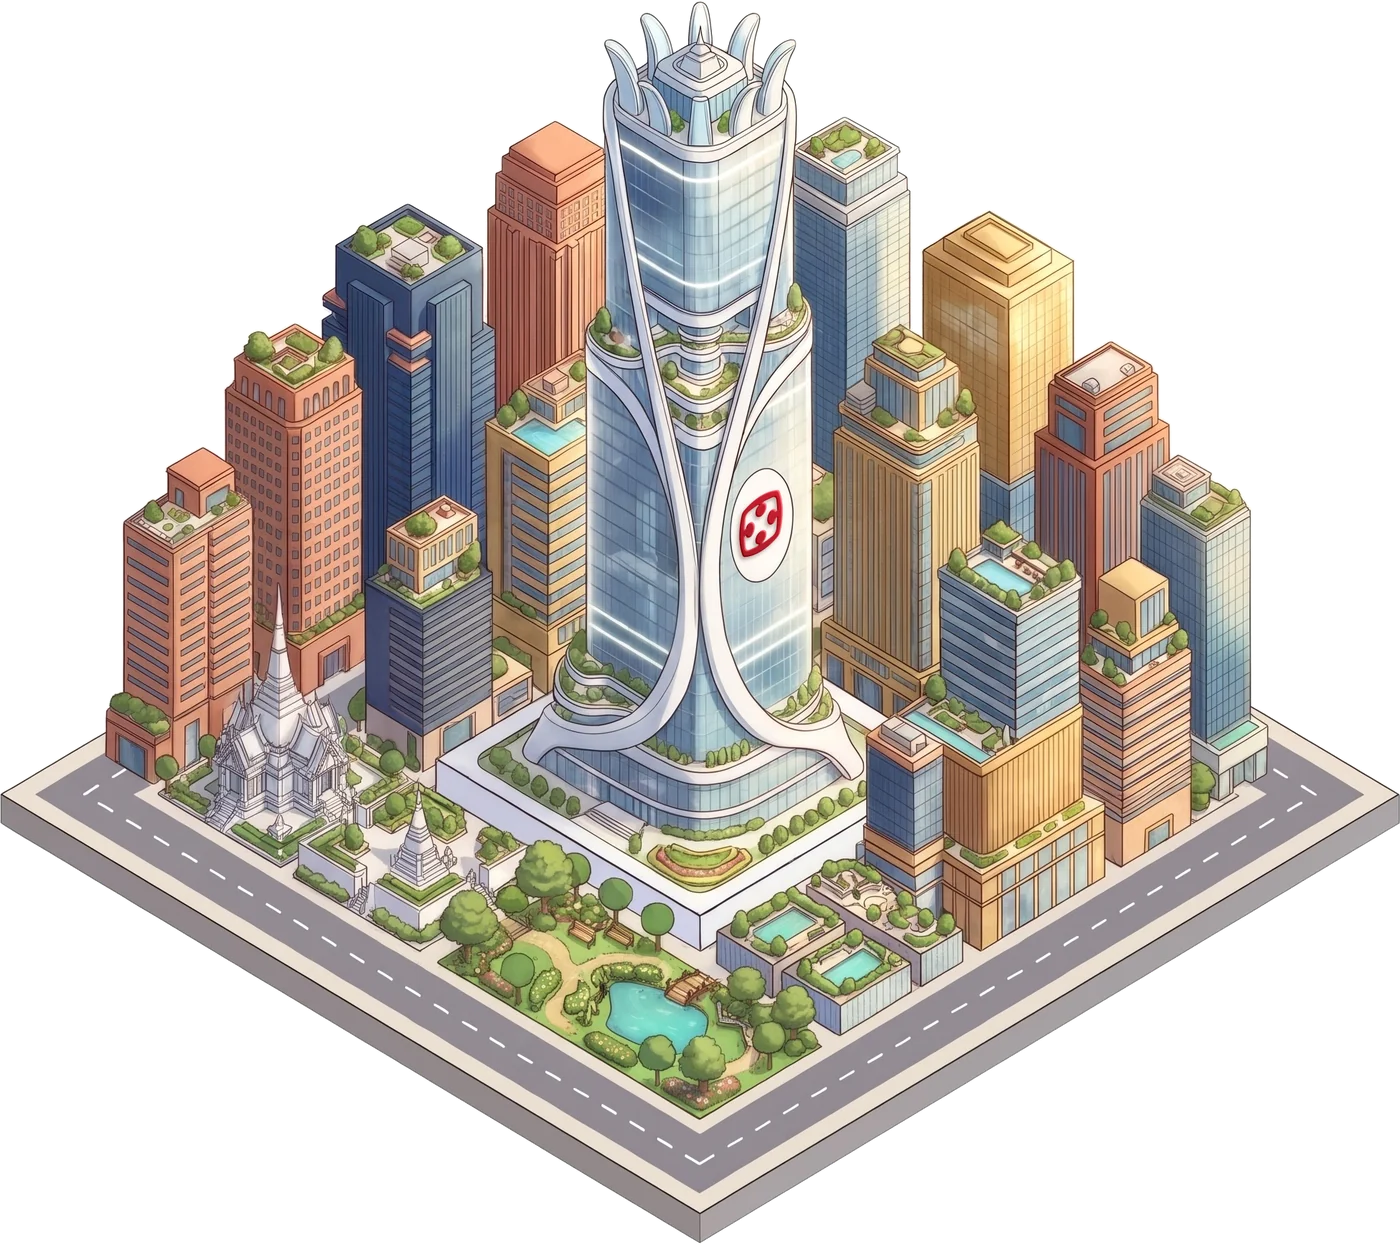
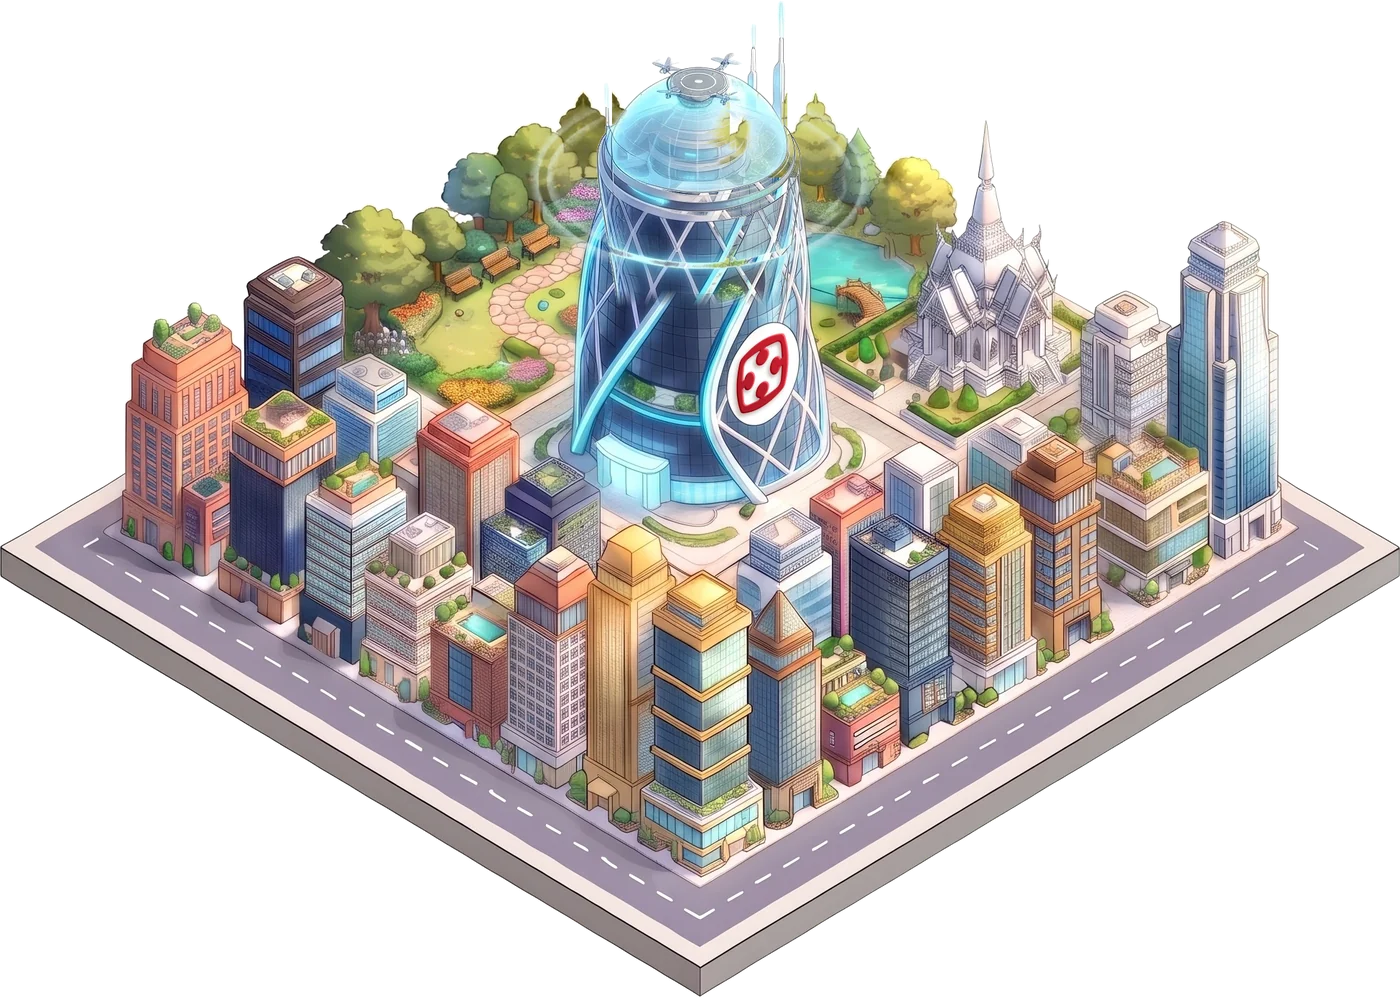
เมืองกลาง v2: สวนวัดด้านหลัง ตึกไฮเทคใหม่เตี้ยลง ไม่บังช่องเดิน
Claude-Session: https://claude.ai/code/session_017ecwu3HZ4xGQvdoVQrkrYe

diff --git a/index.html b/index.html
@@ -3003,7 +3003,7 @@ function bandHTML(){if(!BAND_ON)return '';let h='';const t=(r,c,f,m)=>{let b=50,
   for(let i=3;i<=11;i++){t(2,i,BANDX['2,'+i]||'band-s',1);t(i,2,BANDX[i+',2']||'band-s',-1);t(12,i,BANDX['12,'+i]||'band-f',1);t(i,12,BANDX[i+',12']||'band-f',-1)}
   t(2,2,'band-ct',1);t(2,12,'band-cr',1);t(12,2,'band-cr',-1);t(12,12,'band-cb',1);return h}
 /* ภาพเมืองใหญ่ตรงกลาง 7×7 ช่อง (P041 · โลโก้วางด้วย tools/logoput.py) */
-const CITYC_HTML=`<div class="gapt cityc" style="grid-area:4/4/11/11;--d:14" aria-hidden="true"><img class="pimgc" style="--b:63.8%;--s:1.6675;--d:14" src="img/city-center.webp" alt=""></div>`;
+const CITYC_HTML=`<div class="gapt cityc" style="grid-area:4/4/11/11;--d:14" aria-hidden="true"><img class="pimgc" style="--b:54.8%;--s:1.6675;--d:14" src="img/city-center.webp" alt=""></div>`;
 const CITY_PLATE='<div class="landring'+(BAND_ON?' painted':'')+'" aria-hidden="true"><i class="lr-road"></i><i class="lr-line"></i><i class="lr-river"></i><i class="lr-rail"></i></div>'+'<div class="cityplate" aria-hidden="true"><span>เมืองหลวง</span></div>'+[[2,7],[7,12],[12,7],[7,2]].map(([r,c],i)=>BANDX[r+','+c]?'':`<div class="bridge ${i%2?'h':'v'}" style="grid-row:${r};grid-column:${c}" aria-hidden="true"></div>`).join('')+bandHTML()+CITYC_HTML;
 function zoneOfCell(k){const ring=k[0],i=+k.slice(1),L=RING_LEN[ring];return ring+Math.min(3,Math.floor(i/(L/4)))}
 const SQ_DESC={

diff --git a/graphify.md b/graphify.md
@@ -383,3 +383,4 @@ flowchart LR
 | 2026-11-20 | Claude (แก๊ง · แชตคลังภาพ) | i19 อาคารสำนักงาน (v8 โพเดียม) `prop-i19` 73.3 → **ชุด G ครบ** (i16–i23) · sim3 errors [] |
 | 2026-11-20 | Claude (แก๊ง · แชตคลังภาพ) | **วงในชุด H ครบ → วงในมีภาพครบทุกช่อง** (คลัง `image-prompts-inner-H.md` · v8 โพเดียม): i24 ตกงาน ตึกร้างโทนเทาฟ้า `SQIMG sq-jobless-i24` 68.8 · i25 ธนาคารเสาโรมันโดมทอง `prop-i25` 73.9 · i26 พักผ่อน สวนลอยฟ้าน้ำตก `SQIMG sq-rest-i26` 74.2 · i27 ศูนย์การเงินวงแหวนจอ `prop-i27` 74.3 · i29 ตึกระฟ้าเกลียว `prop-i29` 74.5 · i30 บริจาค มูลนิธิหัวใจแก้ว `SQIMG sq-charity-i30` 72.5 · i31 ทาวเวอร์ทอง `prop-i31` 74.3 · sim3 errors [] |
 | 2026-11-20 | Claude (แก๊ง · แชตคลังภาพ) | **เมืองใหญ่ตรงกลาง** (P041-v3 · คลัง `image-prompts-center.md`): `img/city-center.webp` (1400 กว้าง) ใน `.gapt.cityc` grid-area 4/4/11/11 --b 63.8% · z 24 translateZ(.55px) · ซ่อน `.center.plaza` (visibility) · โลโก้จริงจาก `logomask.npy` วางบนแผงกลมตึกไฮเทค เอียงตามผนัง (shear −0.6 กว้าง 78%) + ไล่แสงจากขวาบน ขอบสว่าง/เงา + เงาตกซ้ายล่าง · หมายเหตุ: ภาพหน้าจอทดสอบ 3x ทำเรนเดอร์ไม่ครบ ใช้ 1x · sim3 errors [] |
+| 2026-11-20 | Claude (แก๊ง · แชตคลังภาพ) | เมืองกลาง v2: สวน+วัดย้ายไปด้านหลัง ตึกสูงอยู่ฝั่งหน้า (ไม่บังช่องเดินด้านหลัง) · ตึกไฮเทคแบบใหม่ (กระจกน้ำเงิน โครงเหล็กขาว ไฟ LED วงแหวนลอย โดมจอดโดรน) · Claude ย่อตึกกลางเองอีก ~35% (ตัดแถบกลางตัวตึกแล้วเลื่อนส่วนบนลง เติมต้นไม้ด้านหลังจากข้างๆ) · โลโก้จริงเอียงตามผนัง + แสงเงา · `--b` 54.8% · sim3 errors [] |
